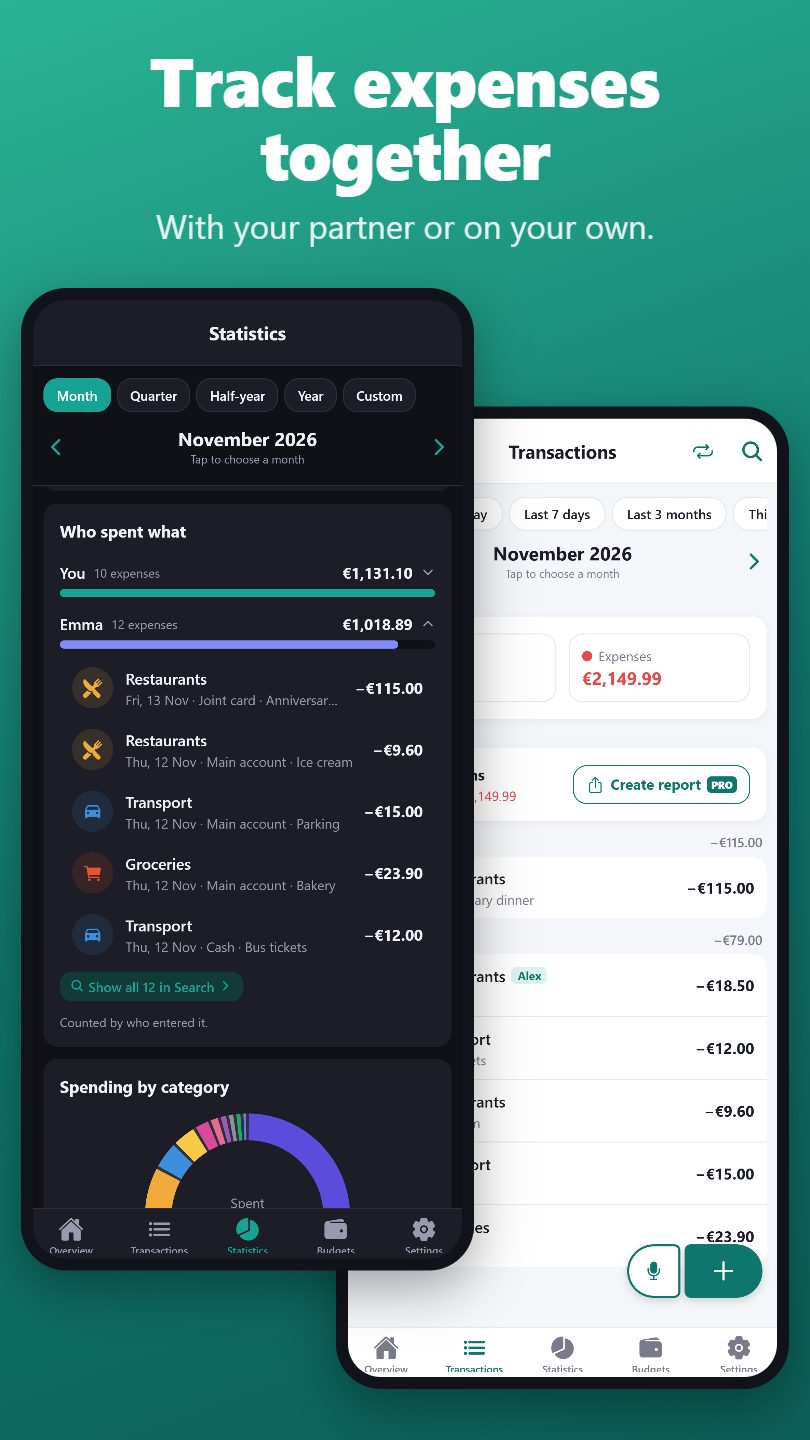
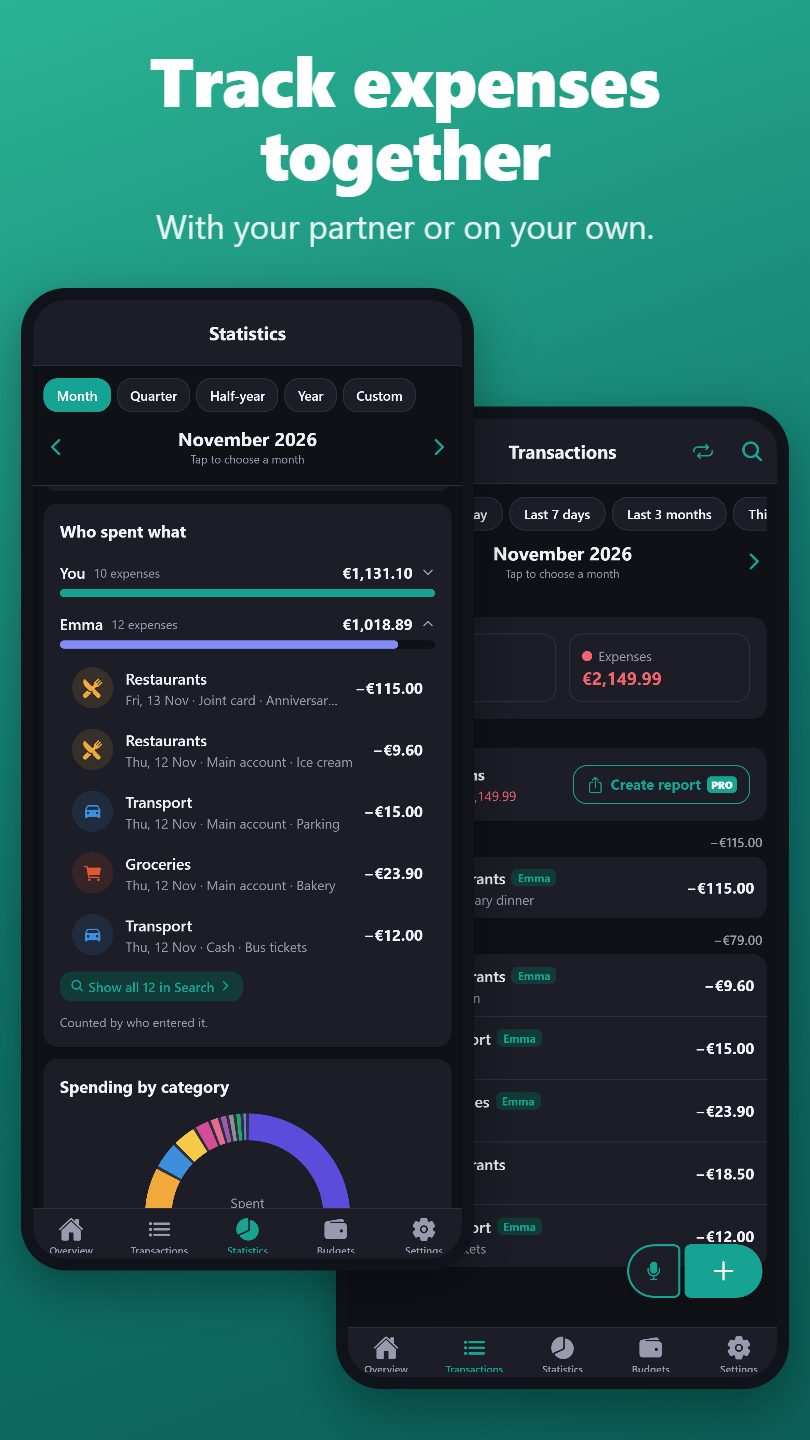
Store image 2: Emma's entries behind Who spent what; alt texts in 4 languages

Changed region(s): [[0.4321, 0.2812, 0.9568, 0.9688]]

diff --git a/ro/index.html b/ro/index.html
@@ -131,7 +131,7 @@
               <img src="/assets/screenshots/store/1-private.jpg" alt="Privat din construcție. Nu vedem niciodată datele tale: fără cont, fără cloud, fără reclame, fără urmărire; ecranul Pe scurt" loading="lazy" width="810" height="1440">
             </figure>
             <figure class="shot-item store-shot">
-              <img src="/assets/screenshots/store/2-shared.jpg" alt="Țineți evidența cheltuielilor împreună. Cu partenerul sau singur: cine ce a cheltuit și tranzacțiile partenerului" loading="lazy" width="810" height="1440">
+              <img src="/assets/screenshots/store/2-shared.jpg" alt="Țineți evidența cheltuielilor împreună. Cu partenerul sau singur: cine ce a cheltuit și tranzacțiile tale, cu numele Emmei la ale ei" loading="lazy" width="810" height="1440">
             </figure>
             <figure class="shot-item store-shot">
               <img src="/assets/screenshots/store/3-sync.jpg" alt="Sincronizare simplă și sigură cu partenerul. De la telefon la telefon în aceeași rețea Wi-Fi, criptat cap-coadă: asociat cu Emma, iar Emma introduce codul" loading="lazy" width="810" height="1440">

diff --git a/es/index.html b/es/index.html
@@ -132,7 +132,7 @@
               <img src="/assets/screenshots/store/1-private.jpg" alt="Privada desde el diseño. Nunca vemos tus datos: sin cuenta, sin nube, sin anuncios, sin rastreo; tu Inicio" loading="lazy" width="810" height="1440">
             </figure>
             <figure class="shot-item store-shot">
-              <img src="/assets/screenshots/store/2-shared.jpg" alt="Controla los gastos en pareja. Con tu pareja o por tu cuenta: quién gastó qué, y los movimientos de tu pareja" loading="lazy" width="810" height="1440">
+              <img src="/assets/screenshots/store/2-shared.jpg" alt="Controla los gastos en pareja. Con tu pareja o por tu cuenta: quién gastó qué, y tus movimientos con el nombre de Emma en los suyos" loading="lazy" width="810" height="1440">
             </figure>
             <figure class="shot-item store-shot">
               <img src="/assets/screenshots/store/3-sync.jpg" alt="Sincronización fácil y segura en pareja. De teléfono a teléfono en la misma Wi-Fi, cifrado de extremo a extremo: emparejado con Emma, y Emma escribiendo el código" loading="lazy" width="810" height="1440">

diff --git a/de/index.html b/de/index.html
@@ -132,7 +132,7 @@
               <img src="/assets/screenshots/store/1-private.jpg" alt="Privat von Grund auf. Wir sehen deine Daten nie: kein Konto, keine Cloud, keine Werbung, kein Tracking; deine Übersicht" loading="lazy" width="810" height="1440">
             </figure>
             <figure class="shot-item store-shot">
-              <img src="/assets/screenshots/store/2-shared.jpg" alt="Ausgaben gemeinsam erfassen. Mit deinem Partner oder allein: wer was ausgegeben hat, und die Buchungen deines Partners" loading="lazy" width="810" height="1440">
+              <img src="/assets/screenshots/store/2-shared.jpg" alt="Ausgaben gemeinsam erfassen. Mit deinem Partner oder allein: wer was ausgegeben hat, und deine Buchungen mit Emmas Namen an ihren" loading="lazy" width="810" height="1440">
             </figure>
             <figure class="shot-item store-shot">
               <img src="/assets/screenshots/store/3-sync.jpg" alt="Einfacher, sicherer Partner-Abgleich. Von Handy zu Handy im selben WLAN, Ende-zu-Ende-verschlüsselt: mit Emma gekoppelt, und Emma tippt den Code ein" loading="lazy" width="810" height="1440">

diff --git a/index.html b/index.html
@@ -134,7 +134,7 @@
               <img src="/assets/screenshots/store/1-private.jpg" alt="Private by design. We never see your data: no account, no cloud, no ads, no tracking; your Overview" loading="lazy" width="810" height="1440">
             </figure>
             <figure class="shot-item store-shot">
-              <img src="/assets/screenshots/store/2-shared.jpg" alt="Track expenses together. With your partner or on your own: who spent what, and your partner’s transactions" loading="lazy" width="810" height="1440">
+              <img src="/assets/screenshots/store/2-shared.jpg" alt="Track expenses together. With your partner or on your own: who spent what, and your transactions with Emma’s name on hers" loading="lazy" width="810" height="1440">
             </figure>
             <figure class="shot-item store-shot">
               <img src="/assets/screenshots/store/3-sync.jpg" alt="Easy, secure partner sync. Phone to phone on the same Wi-Fi, end-to-end encrypted: paired with Emma, and Emma typing the pairing code" loading="lazy" width="810" height="1440">
